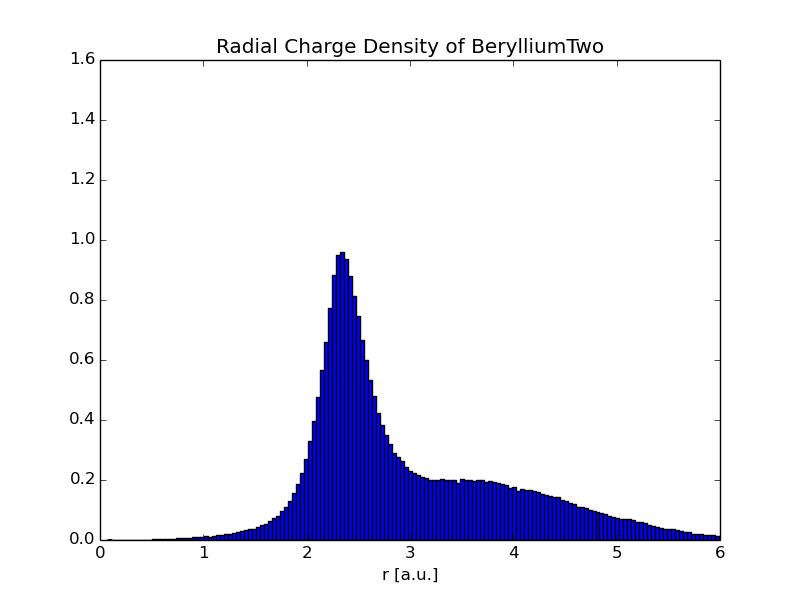
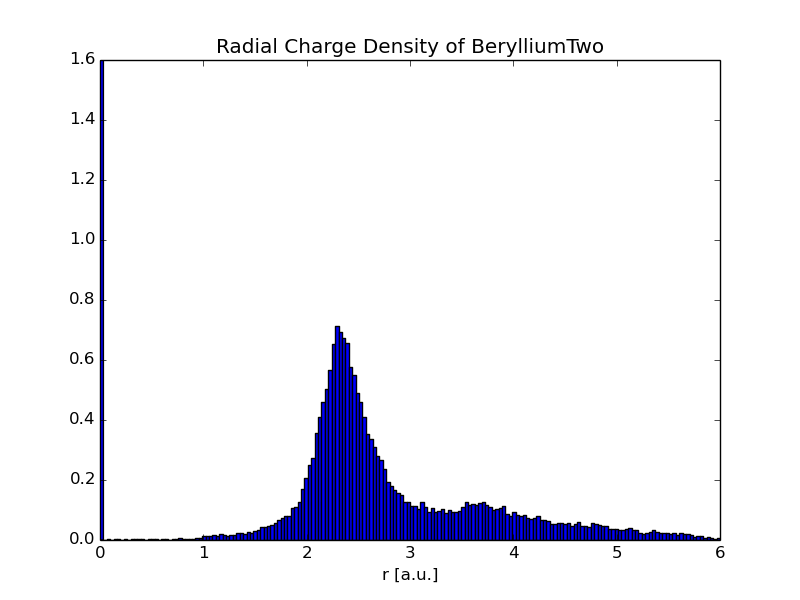
Nothin

Changed region(s): [[0.2188, 0.42, 0.9062, 0.9], [0.125, 0.12, 0.1562, 0.9]]

diff --git a/Report/Report_3/sections/appendix.tex b/Report/Report_3/sections/appendix.tex
@@ -179,7 +179,7 @@
 
 		\subsubsection{Helium: Simple trialfunction}
 		The simple version of the trial function is only dependant on one parameter \( \alpha \) and does not take into account interaction between the two electrons, it is of the form
-		\[ \Psi_T (\vb{r_1}, \vb{r_2}) = \exp{ -\alpha (r_1 + r_2) } \]Let us set this trialfunction into the equation for the local energy \eqref{eq:localEnergy}.
+		\[ \Psi_T (\vb{r_1}, \vb{r_2}) = \exp{ -\alpha (r_1 + r_2) } \]Let us set this trialfunction into the equation for the local energy \eqref{eq:localEnergy}. 
 		\begin{align}
 			E_L &= \sum_{i,i<j}{  -\frac{1}{2\Psi_T} \left( \pdv[2]{e^{-\alpha (r_i + r_j)}}{r_i} + \pdv{e^{-\alpha (r_i + r_j)}}{r_i} \frac{ 2 }{ r_i } \right)  -\frac{Z}{r_i}  -  \frac{Z}{r_j} +  \frac{1}{r_{ij} }}
 			\\

diff --git a/source/python/energyLevels.py b/source/python/energyLevels.py
@@ -146,7 +146,7 @@ def plotChargeDensity(data, name):
 	ylimit = (0, 3)
 	xlimit = (0, 4)
 
-
+	nElectrons = 5
 	#This sorts out the coordinates of th eelectrons and stores them as r values
 	for i in range(0 , nElectrons):
 		lower = 4 + 3*i
@@ -218,8 +218,8 @@ def plotChargeDensity(data, name):
 	pl.title("Charge Density of " + name)
 	pl.xlabel("x axis [a.u.]")
 	pl.ylabel("z axis [a.u.]")
-	pl.xlim([-3,3])
-	pl.ylim([-3,3])
+	pl.xlim([-6,6])
+	pl.ylim([-6,6])
 	pl.colorbar()
 	fig.savefig("../../Report/figures/OneBodyDensity" + name)
 
@@ -332,9 +332,9 @@ def plotVarVSnCycles(data, name):
 # name = "HeliumJastrowAnalytical"
 # name = "Beryllium"
 # name = "Neon"
-name = "HydrogenTwo"
+# name = "HydrogenTwo"
 # name = "Helium"
-# name = "BerylliumTwo"
+name = "BerylliumTwo"
 
 
 
